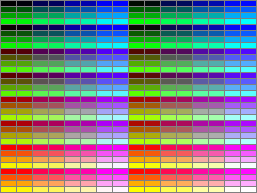
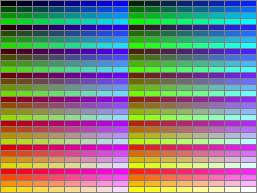
Messed up RGB3>8 conversion!

diff --git a/csharp/PaletteGenerator/Program.cs b/csharp/PaletteGenerator/Program.cs
@@ -32,9 +32,9 @@ namespace PaletteGenerator
                             int r3 = (i & 448) >> 6;
                             int g3 = (i & 56) >> 3;
                             int b3 = i & 7;
-                            int r8 = r3 + (r3 << 3) + ((r3 & 6) << 5);
-                            int g8 = g3 + (g3 << 3) + ((g3 & 6) << 5);
-                            int b8 = b3 + (b3 << 3) + ((b3 & 6) << 5);
+                            int r8 = (r3 << 5) + (r3 << 2) + ((r3 & 6) >> 1);
+                            int g8 = (g3 << 5) + (g3 << 2) + ((g3 & 6) >> 1);
+                            int b8 = (b3 << 5) + (b3 << 2) + ((b3 & 6) >> 1);
                             var rgb888 = Color.FromArgb(r8, g8, b8);
                             using (var brush = new SolidBrush(rgb888))
                                 g.FillRectangle(brush, h * 16, v * 6, 16, 6);
